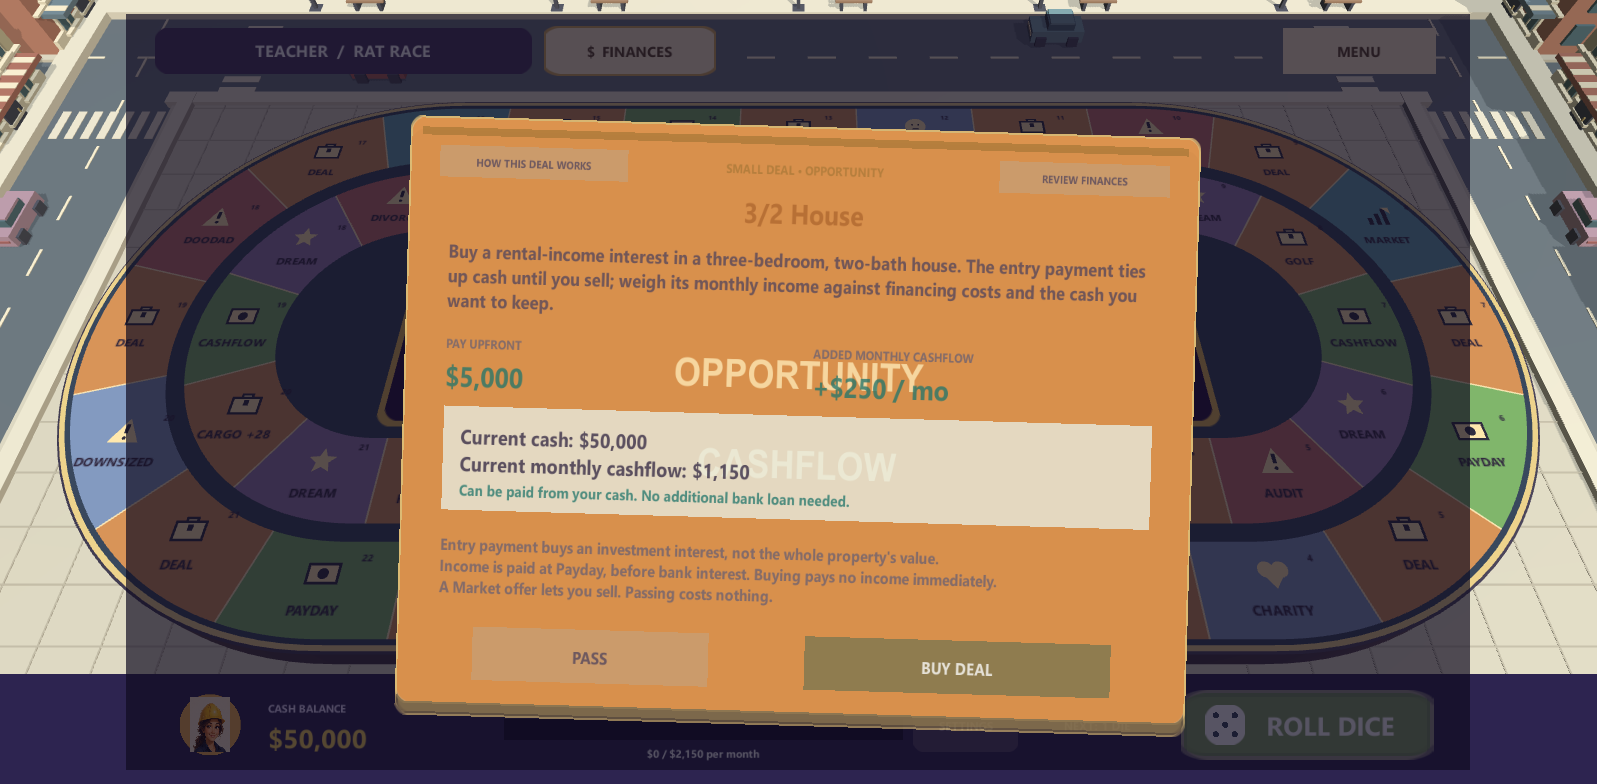
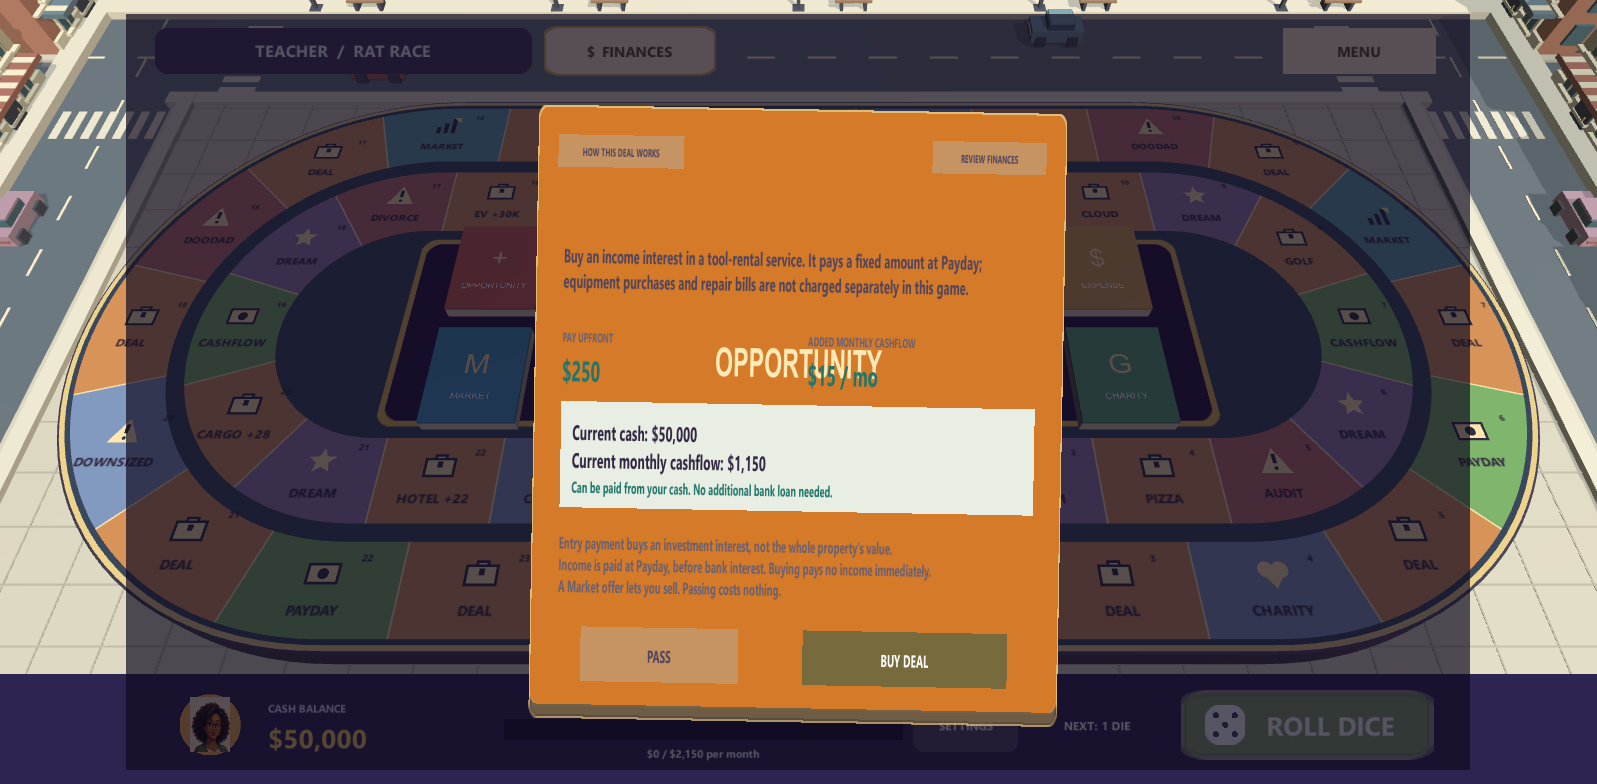
Implement deal deck validation and enhance deal explanations; add new deal types and improve UI feedback

diff --git a/Assets/Scripts/CashflowGame.cs b/Assets/Scripts/CashflowGame.cs
@@ -35,11 +35,23 @@ public partial class CashflowGame : MonoBehaviour
     readonly string[] ratTiles = { "OPPORTUNITY", "DOODAD", "OPPORTUNITY", "CHARITY", "OPPORTUNITY", "PAYDAY", "OPPORTUNITY", "MARKET", "OPPORTUNITY", "DOODAD", "OPPORTUNITY", "BABY", "OPPORTUNITY", "PAYDAY", "OPPORTUNITY", "MARKET", "OPPORTUNITY", "DOODAD", "OPPORTUNITY", "DOWNSIZED", "OPPORTUNITY", "PAYDAY", "OPPORTUNITY", "MARKET" };
     readonly string[] fastTiles = { "CASHFLOW DAY", "BIO-TECH +25K", "DREAM", "PIZZA +18K", "TAX AUDIT", "DREAM", "CASHFLOW DAY", "GOLF +35K", "DREAM", "CLOUD +40K", "LAWSUIT", "DREAM", "CASHFLOW DAY", "CAR WASH +15K", "DREAM", "EV +30K", "DIVORCE", "DREAM", "CASHFLOW DAY", "CARGO +28K", "DREAM", "HOTEL +22K", "CORRECTION", "DREAM" };
     readonly Deal[] smallDeals = {
+        new Deal("Growth Share", 10, 0, "Buy one growth-company share for $10. It pays no dividends or Payday income. Keep it for a future Market sale; the offer may be higher or lower than your entry price."),
+        new Deal("Dividend Basket", 100, 2, "Buy a small income interest in a dividend-paying investment basket. It adds $2 at each Payday in this game; selling ends that income."),
+        new Deal("Tool Rental Share", 250, 15, "Buy an income interest in a tool-rental service. It pays a fixed amount at Payday; equipment purchases and repair bills are not charged separately in this game."),
+        new Deal("Digital Templates", 400, 20, "Buy an income interest in a catalogue of digital templates. Sales provide a fixed Payday payment; you do not create designs or pay separate hosting costs."),
+        new Deal("Parking Space", 750, 40, "Buy an income interest in a rented parking space. It provides one fixed Payday payment and is sold as one investment when a Market offer arrives."),
+        new Deal("Laundry Share", 1200, 75, "Buy an income interest in a neighbourhood laundry. The fixed Payday amount has no separate utility or machine-maintenance bills in this game."),
+        new Deal("Storage Units", 2000, 130, "Buy an income interest in a small storage business. Rental receipts are combined into one fixed Payday payment; a sale transfers the whole investment interest."),
+        new Deal("Coffee Cart", 2500, 190, "Buy an income interest in a coffee-cart business. It pays a fixed amount at Payday without separate staffing or supply bills in this game."),
         new Deal("2/1 Condo", 4000, 220, "Buy an income-producing interest in a two-bedroom, one-bath condo. Rental income adds to your Payday receipts; borrowing to enter the deal creates a separate monthly interest bill."),
         new Deal("3/2 House", 5000, 250, "Buy a rental-income interest in a three-bedroom, two-bath house. The entry payment ties up cash until you sell; weigh its monthly income against financing costs and the cash you want to keep."),
         new Deal("Vending Route", 4000, 350, "Buy an income interest in a vending-machine route. Sales provide a fixed monthly payment in this game; you do not manage stock or pay separate restocking bills."),
         new Deal("Micro SaaS", 3000, 400, "Buy an income interest in a subscription software business. Customer subscriptions provide a fixed monthly payment in this game; there are no separate development or hosting bills.") };
     readonly Deal[] bigDeals = {
+        new Deal("Warehouse Rentals", 15000, 1000, "Buy an income interest in warehouse rentals. Several rental receipts become one fixed Payday payment; the investment is sold together rather than unit by unit."),
+        new Deal("Car Wash", 20000, 1500, "Buy an income interest in a car wash. Its Payday payment has no separate staffing or equipment bills; bank borrowing still adds a monthly interest expense."),
+        new Deal("Neighbourhood Shops", 25000, 1800, "Buy an income interest in a group of shops. Rents are combined into one fixed Payday payment. Your entry cash remains invested until a Market sale."),
+        new Deal("Distribution Business", 30000, 2400, "Buy an income interest in a distribution business. It pays a fixed amount at Payday; its large entry payment may leave less cash available for other events."),
         new Deal("4-Plex", 10000, 800, "Buy an income interest in a building with four rental homes. Their rental income is combined into one payment; the game treats this as one investment that is sold together."),
         new Deal("Pizza Franchise", 35000, 3000, "Buy an income interest in a pizza franchise. The monthly payment has no separate staffing or ingredient bills in this game. Its large entry payment can require substantial bank borrowing.") };
 
@@ -108,7 +120,7 @@ public partial class CashflowGame : MonoBehaviour
     void BuildCanvas() { var root=new GameObject("Cashflow Unity",typeof(Canvas),typeof(CanvasScaler),typeof(GraphicRaycaster)); canvas=root.GetComponent<Canvas>(); canvas.renderMode=RenderMode.ScreenSpaceOverlay; var scaler=root.GetComponent<CanvasScaler>(); scaler.uiScaleMode=CanvasScaler.ScaleMode.ScaleWithScreenSize; scaler.referenceResolution=new Vector2(1280,720); scaler.matchWidthOrHeight=.5f; uiRoot=new GameObject("Safe Area",typeof(RectTransform),typeof(SafeBoardLayout)).GetComponent<RectTransform>(); uiRoot.SetParent(root.transform,false); var bg=new GameObject("Background",typeof(Image)); bg.transform.SetParent(uiRoot,false); bg.GetComponent<Image>().color=C("#0b1220"); Stretch(bg.GetComponent<RectTransform>()); }
     void ClearUI() { foreach(Transform child in uiRoot) if(child.name!="Background"){child.gameObject.SetActive(false);Destroy(child.gameObject);} }
     void SetButtonText(Button button, Color color, int size) { var text=button.GetComponentInChildren<Text>(); if(text!=null){text.color=color;text.fontSize=size;text.fontStyle=FontStyle.Bold;} }
-    void StartGame(){ if(profession==null)LoadProfessionSelection(); selectedDream=Mathf.Clamp(PlayerPrefs.GetInt("CashflowDream",0),0,dreams.Length-1); dream=dreams[selectedDream]; cash=profession.savings; portfolio.Clear(); passive=0;children=0;position=0;fastPosition=0;fastTrack=false;charity=false;skipTurns=0;bankLoan=0;gameWon=false;fastTrackIntro=false;ResetPersonalDebts();ResetHistory();BuildGame(); }
+    void StartGame(){ if(profession==null)LoadProfessionSelection(); selectedDream=Mathf.Clamp(PlayerPrefs.GetInt("CashflowDream",0),0,dreams.Length-1); dream=dreams[selectedDream]; cash=profession.savings; portfolio.Clear(); passive=0;children=0;position=0;fastPosition=0;fastTrack=false;charity=false;skipTurns=0;bankLoan=0;gameWon=false;fastTrackIntro=false;ResetPersonalDebts();ResetHistory();ResetDealDecks();BuildGame(); }
     void BuildGame()
     {
         if(world!=null){world.gameObject.SetActive(false);Destroy(world.gameObject);}

diff --git a/Assets/Scripts/CashflowCards.cs b/Assets/Scripts/CashflowCards.cs
@@ -30,15 +30,14 @@ public partial class CashflowGame
         var button=Button(parent,"",accent,()=>
         {
             if(chosen)return;chosen=true;
-            var pool=big?bigDeals:smallDeals;
-            OfferDeal(pool[Random.Range(0,pool.Length)],big);
+            OfferDeal(DrawDeal(big),big);
         });
         button.gameObject.name=big?"Choose Big Deal":"Choose Small Deal";
         Place(button.GetComponent<RectTransform>(),x,-60,340,278);
         button.GetComponent<Image>().sprite=RoundedSprite();button.GetComponent<Image>().type=Image.Type.Sliced;
         DealArt(button.transform,big,new Vector2(0,45),new Vector2(175,115));
         var title=Label(button.transform,big?"BIG DEAL":"SMALL DEAL",24);title.fontStyle=FontStyle.Bold;Place(title.rectTransform,0,-38,310,35);
-        var cost=Label(button.transform,big?"$10,000–$35,000 down":"$3,000–$5,000 down",17);cost.color=C("#f5e4bc");Place(cost.rectTransform,0,-77,310,28);
+        var cost=Label(button.transform,DealPriceRange(big),17);cost.color=C("#f5e4bc");Place(cost.rectTransform,0,-77,310,28);
         var draw=Label(button.transform,"DRAW A CARD  →",15);Place(draw.rectTransform,0,-112,300,25);
         foreach(var graphic in button.GetComponentsInChildren<Graphic>())if(graphic!=button.targetGraphic)graphic.raycastTarget=false;
     }
@@ -56,7 +55,7 @@ public partial class CashflowGame
         var story=Label(card.transform,string.IsNullOrWhiteSpace(deal.description)?"Review the upfront payment and monthly income before deciding whether this investment fits your budget.":deal.description,19,TextAnchor.MiddleLeft);
         story.name="Deal Explanation";story.color=C("#51445b");Place(story.rectTransform,0,137,810,88);
         DealFigure(card.transform,"PAY UPFRONT",Money(deal.down),-210,53,accent);
-        DealFigure(card.transform,"ADDED MONTHLY CASHFLOW","+"+Money(deal.flow)+" / mo",210,53,C("#21756a"));
+        DealFigure(card.transform,deal.flow==0?"NO MONTHLY INCOME":"ADDED MONTHLY CASHFLOW",Money(deal.flow)+" / mo",210,53,C("#21756a"));
         bool affordable=cash>=deal.down, resolved=false;
         int loan=affordable?0:LoanNeeded(deal),interest=loan/10;
         var preview=Panel(card.transform,Vector2.one*.5f,Vector2.one*.5f,new Vector2(810,105),C("#e8eee3"));Place(preview.GetComponent<RectTransform>(),0,-48,810,105);
@@ -65,7 +64,7 @@ public partial class CashflowGame
         current.name="Current Deal Finances";current.color=C("#302540");Place(current.rectTransform,0,9,770,62);
         var funding=Label(preview.transform,affordable?"Can be paid from your cash. No additional bank loan needed.":"Buying requires a "+Money(loan)+" bank loan at "+Money(interest)+" per month. Review before confirming.",16,TextAnchor.MiddleLeft);
         funding.name="Deal Funding";funding.color=C(affordable?"#21756a":"#a84036");Place(funding.rectTransform,0,-32,770,28);
-        var terms=Label(card.transform,"Entry payment buys an investment interest, not the whole property's value.\nIncome is paid at Payday, before bank interest. Buying pays no income immediately.\nA Market offer lets you sell. Passing costs nothing.",17,TextAnchor.MiddleLeft);
+        var terms=Label(card.transform,"Entry payment buys this investment; it is not a guaranteed resale value.\n"+(deal.flow==0?"No income at Payday. Your return depends on a future sale; profit is not guaranteed.":"Income is paid at Payday, before bank interest. Buying pays no income immediately.")+"\nA Market offer lets you sell. Passing costs nothing.",17,TextAnchor.MiddleLeft);
         terms.name="Deal Terms";terms.color=C("#6a6071");Place(terms.rectTransform,0,-156,810,90);
         var buy=Button(card.transform,affordable?"BUY DEAL":"BORROW & BUY...",accent,()=>
         {
@@ -80,7 +79,7 @@ public partial class CashflowGame
         var toast=Panel(uiRoot,Vector2.one*.5f,Vector2.one*.5f,new Vector2(520,88),C("#21756a"));
         toast.name="Property Acquired";Place(toast.GetComponent<RectTransform>(),0,230,520,88);
         toast.GetComponent<Image>().sprite=RoundedSprite();
-        var text=Label(toast.transform,"INVESTMENT ACQUIRED!\n"+deal.title+"  •  +"+Money(deal.flow)+" / month",20);Stretch(text.rectTransform);
+        var text=Label(toast.transform,"INVESTMENT ACQUIRED!\n"+deal.title+(deal.flow==0?"  •  No monthly income":"  •  +"+Money(deal.flow)+" / month"),20);Stretch(text.rectTransform);
         foreach(var graphic in toast.GetComponentsInChildren<Graphic>())graphic.raycastTarget=false;
         toast.AddComponent<CardReveal>().Play(world.ReducedMotion);
         if(!world.ReducedMotion)CardSparkles.Create(toast.transform);

diff --git a/Assets/Editor/DealDeckReview.cs b/Assets/Editor/DealDeckReview.cs
@@ -1,0 +1,52 @@
+using System;
+using System.Collections.Generic;
+using System.IO;
+using System.Reflection;
+
+public static class DealDeckReview
+{
+    public static void Validate(CashflowGame game)
+    {
+        var flags=BindingFlags.Instance|BindingFlags.NonPublic;
+        Func<string,object> get=n=>typeof(CashflowGame).GetField(n,flags).GetValue(game);
+        Func<string,object[],object> call=(n,a)=>typeof(CashflowGame).GetMethod(n,flags).Invoke(game,a);
+        Action<bool,string> check=(ok,message)=>{if(!ok)throw new Exception(message);};
+        var small=(CashflowGame.Deal[])get("smallDeals");var big=(CashflowGame.Deal[])get("bigDeals");
+        call("ResetDealDecks",null);
+        foreach(bool large in new[]{false,true}){
+            var pool=large?big:small;CashflowGame.Deal last=null;
+            for(int cycle=0;cycle<4;cycle++){
+                var seen=new HashSet<CashflowGame.Deal>();
+                for(int i=0;i<pool.Length;i++){
+                    var card=(CashflowGame.Deal)call("DrawDeal",new object[]{large});
+                    check(Array.IndexOf(pool,card)>=0 && seen.Add(card),"Wrong deck or repeated card within cycle");
+                    check(card!=last,"Immediate repeat across shuffle boundary");last=card;
+                }
+            }
+        }
+        call("ResetDealDecks",null);call("DrawDeal",new object[]{false});
+        int remaining=((List<CashflowGame.Deal>)get("smallDrawPile")).Count;
+        call("DrawDeal",new object[]{true});
+        check(((List<CashflowGame.Deal>)get("smallDrawPile")).Count==remaining,"Drawing big advanced the small deck");
+        call("StartGame",null);
+        check(((List<CashflowGame.Deal>)get("smallDrawPile")).Count==0 && get("lastSmallDeal")==null,"New game did not reset deck");
+        var growth=Array.Find(small,d=>d.down==10 && d.flow==0);
+        check(growth!=null,"Missing affordable resale-only investment");
+        typeof(CashflowGame).GetField("cash",flags).SetValue(game,400);
+        call("PurchaseInvestment",new object[]{growth,0});
+        var portfolio=(List<CashflowGame.OwnedInvestment>)get("portfolio");
+        check((int)get("cash")==390 && (int)get("passive")==0,"Resale-only purchase changed income or charged wrong price");
+        check((bool)call("SellInvestment",new object[]{portfolio[0],17}),"Resale-only asset cannot sell");
+        check((int)get("cash")==407 && portfolio.Count==0,"Resale settlement incorrect");
+        call("StartGame",null);typeof(CashflowGame).GetField("cash",flags).SetValue(game,0);
+        var tool=Array.Find(small,d=>d.down==250);
+        int loan=(int)call("LoanNeeded",new object[]{tool});
+        call("PurchaseInvestment",new object[]{tool,loan});
+        portfolio=(List<CashflowGame.OwnedInvestment>)get("portfolio");var asset=portfolio[0];
+        check((int)get("cash")==750 && (int)get("bankLoan")==1000,"Small investment loan rounding incorrect");
+        check(!(bool)call("SellInvestment",new object[]{asset,187}) && portfolio.Count==1 && (int)get("cash")==750,"Underfunded sale changed state");
+        check((bool)call("SellInvestment",new object[]{asset,437}) && (int)get("cash")==187 && (int)get("bankLoan")==0 && (int)get("passive")==0,"Financed sale failed to settle loan/income");
+        call("StartGame",null);
+        File.WriteAllText("work/deal-copy-review/deck-results.txt","PASS: four complete cycles per deck, no within-cycle or boundary repeats, independent decks, new-game reset, $10 resale-only purchase/sale, small-investment borrowing and loan-shortfall sale guards.");
+    }
+}

diff --git a/Assets/Scripts/CashflowDealExplanation.cs b/Assets/Scripts/CashflowDealExplanation.cs
@@ -12,7 +12,7 @@ public partial class CashflowGame
             var heading=Label(overlay.transform,deal.title,28);heading.color=C("#302540");Place(heading.rectTransform,0,235,810,48);
             DealExplanationSection(overlay.transform,"WHAT YOU OWN",deal.description,165);
             DealExplanationSection(overlay.transform,"WHAT YOU PAY","Pay once for an investment interest. No extra mortgage is added. Borrowing creates monthly interest; principal must be repaid separately.",65);
-            DealExplanationSection(overlay.transform,"WHEN YOU EARN","Income is fixed and paid at Payday, not when you buy. No separate running-cost bills apply. Any bank interest is a separate expense.",-35);
+            DealExplanationSection(overlay.transform,"WHEN YOU EARN",deal.flow==0?"This investment pays no monthly income. Any return comes from selling at a Market offer, which may be below your entry payment. Bank interest still applies if you borrow.":"Income is fixed and paid at Payday, not when you buy. No separate running-cost bills apply. Any bank interest is a separate expense.",-35);
             DealExplanationSection(overlay.transform,"HOW YOU SELL","Market offers can be below your entry payment. Selling stops the income and clears its linked loan; you cover any shortfall. Pass to keep it.",-135);
             var back=Button(overlay.transform,"BACK TO THIS OFFER",C("#21756a"),()=>{overlay.SetActive(false);Destroy(overlay);});
             back.name="Return From Deal Explanation";Place(back.GetComponent<RectTransform>(),0,-245,370,52);SetButtonText(back,Color.white,18);

diff --git a/Assets/Editor/DealCopyReview.cs b/Assets/Editor/DealCopyReview.cs
@@ -29,8 +29,11 @@ public static class DealCopyReview
         {
             var game=UnityEngine.Object.FindObjectOfType<CashflowGame>();
             Action<string,object[]> call=(name,args)=>typeof(CashflowGame).GetMethod(name,Flags).Invoke(game,args);
-            if(step==0)call("StartGame",null);
-            else if(step<=18)
+            var small=(CashflowGame.Deal[])typeof(CashflowGame).GetField("smallDeals",Flags).GetValue(game);
+            var big=(CashflowGame.Deal[])typeof(CashflowGame).GetField("bigDeals",Flags).GetValue(game);
+            var deals=small.Concat(big).ToArray();
+            if(step==0){call("StartGame",null);DealDeckReview.Validate(game);}
+            else if(step<=deals.Length*3)
             {
                 int i=(step-1)/3;
                 if(step%3==1)
@@ -38,9 +41,6 @@ public static class DealCopyReview
                     int size=i%Sizes.GetLength(0);
                     typeof(BoardReview).GetMethod("SetSize",BindingFlags.NonPublic|BindingFlags.Static).Invoke(null,new object[]{Sizes[size,0],Sizes[size,1]});
                     typeof(CashflowGame).GetField("cash",Flags).SetValue(game,i%2==0?50000:400);
-                    var small=(CashflowGame.Deal[])typeof(CashflowGame).GetField("smallDeals",Flags).GetValue(game);
-                    var big=(CashflowGame.Deal[])typeof(CashflowGame).GetField("bigDeals",Flags).GetValue(game);
-                    var deals=small.Concat(big).ToArray();
                     call("OfferDeal",new object[]{deals[i],i>=small.Length});
                 }
                 else

diff --git a/Assets/Scripts/CashflowDealDecks.cs b/Assets/Scripts/CashflowDealDecks.cs
@@ -1,0 +1,47 @@
+using System.Collections.Generic;
+using UnityEngine;
+
+public partial class CashflowGame
+{
+    readonly List<Deal> smallDrawPile = new List<Deal>();
+    readonly List<Deal> bigDrawPile = new List<Deal>();
+    Deal lastSmallDeal, lastBigDeal;
+
+    void ResetDealDecks()
+    {
+        smallDrawPile.Clear(); bigDrawPile.Clear();
+        lastSmallDeal=null; lastBigDeal=null;
+    }
+
+    Deal DrawDeal(bool big)
+    {
+        var pile=big?bigDrawPile:smallDrawPile;
+        var pool=big?bigDeals:smallDeals;
+        var previous=big?lastBigDeal:lastSmallDeal;
+        if(pile.Count==0)
+        {
+            pile.AddRange(pool);
+            for(int i=pile.Count-1;i>0;i--)
+            {
+                int j=Random.Range(0,i+1);
+                var swap=pile[i];pile[i]=pile[j];pile[j]=swap;
+            }
+            // A fresh shuffle must not immediately repeat the last discarded card.
+            if(pile.Count>1 && pile[pile.Count-1]==previous)
+            {
+                var swap=pile[0];pile[0]=pile[pile.Count-1];pile[pile.Count-1]=swap;
+            }
+        }
+        var deal=pile[pile.Count-1];pile.RemoveAt(pile.Count-1);
+        if(big)lastBigDeal=deal;else lastSmallDeal=deal;
+        return deal;
+    }
+
+    string DealPriceRange(bool big)
+    {
+        var pool=big?bigDeals:smallDeals;
+        int min=int.MaxValue,max=0;
+        foreach(var deal in pool){min=Mathf.Min(min,deal.down);max=Mathf.Max(max,deal.down);}
+        return Money(min)+"–"+Money(max)+" upfront";
+    }
+}

diff --git a/Assets/Scripts/CashflowPortfolio.cs b/Assets/Scripts/CashflowPortfolio.cs
@@ -81,7 +81,7 @@ public partial class CashflowGame
         FinanceRow(card.transform,"Bank loan remaining",Money(asset.outstandingBankLoan),-24);
         FinanceRow(card.transform,"Monthly investment income",Money(asset.monthlyIncome),-66);
         FinanceRow(card.transform,"Income after bank interest",Money(asset.monthlyIncome-asset.outstandingBankLoan/10),-108);
-        var note=Label(card.transform,"Entry payment is not the whole property's price or a resale valuation.\nIncome is paid at Payday. A Market sale clears the linked loan and stops this income.",17);note.color=C("#6a6071");Place(note.rectTransform,0,-175,810,60);
+        var note=Label(card.transform,"Entry payment records what you paid, not a current resale valuation.\nIncome is paid at Payday. A Market sale clears the linked loan and stops this income.",17);note.color=C("#6a6071");Place(note.rectTransform,0,-175,810,60);
         var back=Button(card.transform,"BACK TO PORTFOLIO",C("#21756a"),()=>ShowPortfolio(page));back.name="Back To Portfolio";Place(back.GetComponent<RectTransform>(),0,-245,350,52);SetButtonText(back,Color.white,18);
     }
 }

diff --git a/Assets/Editor/DealReview.cs b/Assets/Editor/DealReview.cs
@@ -49,7 +49,7 @@ public static class DealReview
                     Require(GameObject.Find("Buy Deal").GetComponent<Button>().interactable,"Affordable deal disabled");break;
                 case 4:
                     var buy=GameObject.Find("Buy Deal").GetComponent<Button>();buy.onClick.Invoke();int cash=Get("cash"),flow=Get("passive");buy.onClick.Invoke();
-                    Require(Get("cash")==cash&&Get("passive")==flow,"Purchase charged twice");Require(cash<50000&&flow>0,"Purchase did not update balances");
+                    Require(Get("cash")==cash&&Get("passive")==flow,"Purchase charged twice");Require(cash<50000&&((System.Collections.ICollection)typeof(CashflowGame).GetField("portfolio",Flags).GetValue(Game)).Count>0,"Purchase did not register investment");
                     Require(!UnityEngine.Object.FindObjectOfType<BoardWorld>().InputBlocked,"Buy did not unblock board");
                     Call("Land","OPPORTUNITY");break;
                 case 5:Click("Choose Big Deal");break;
